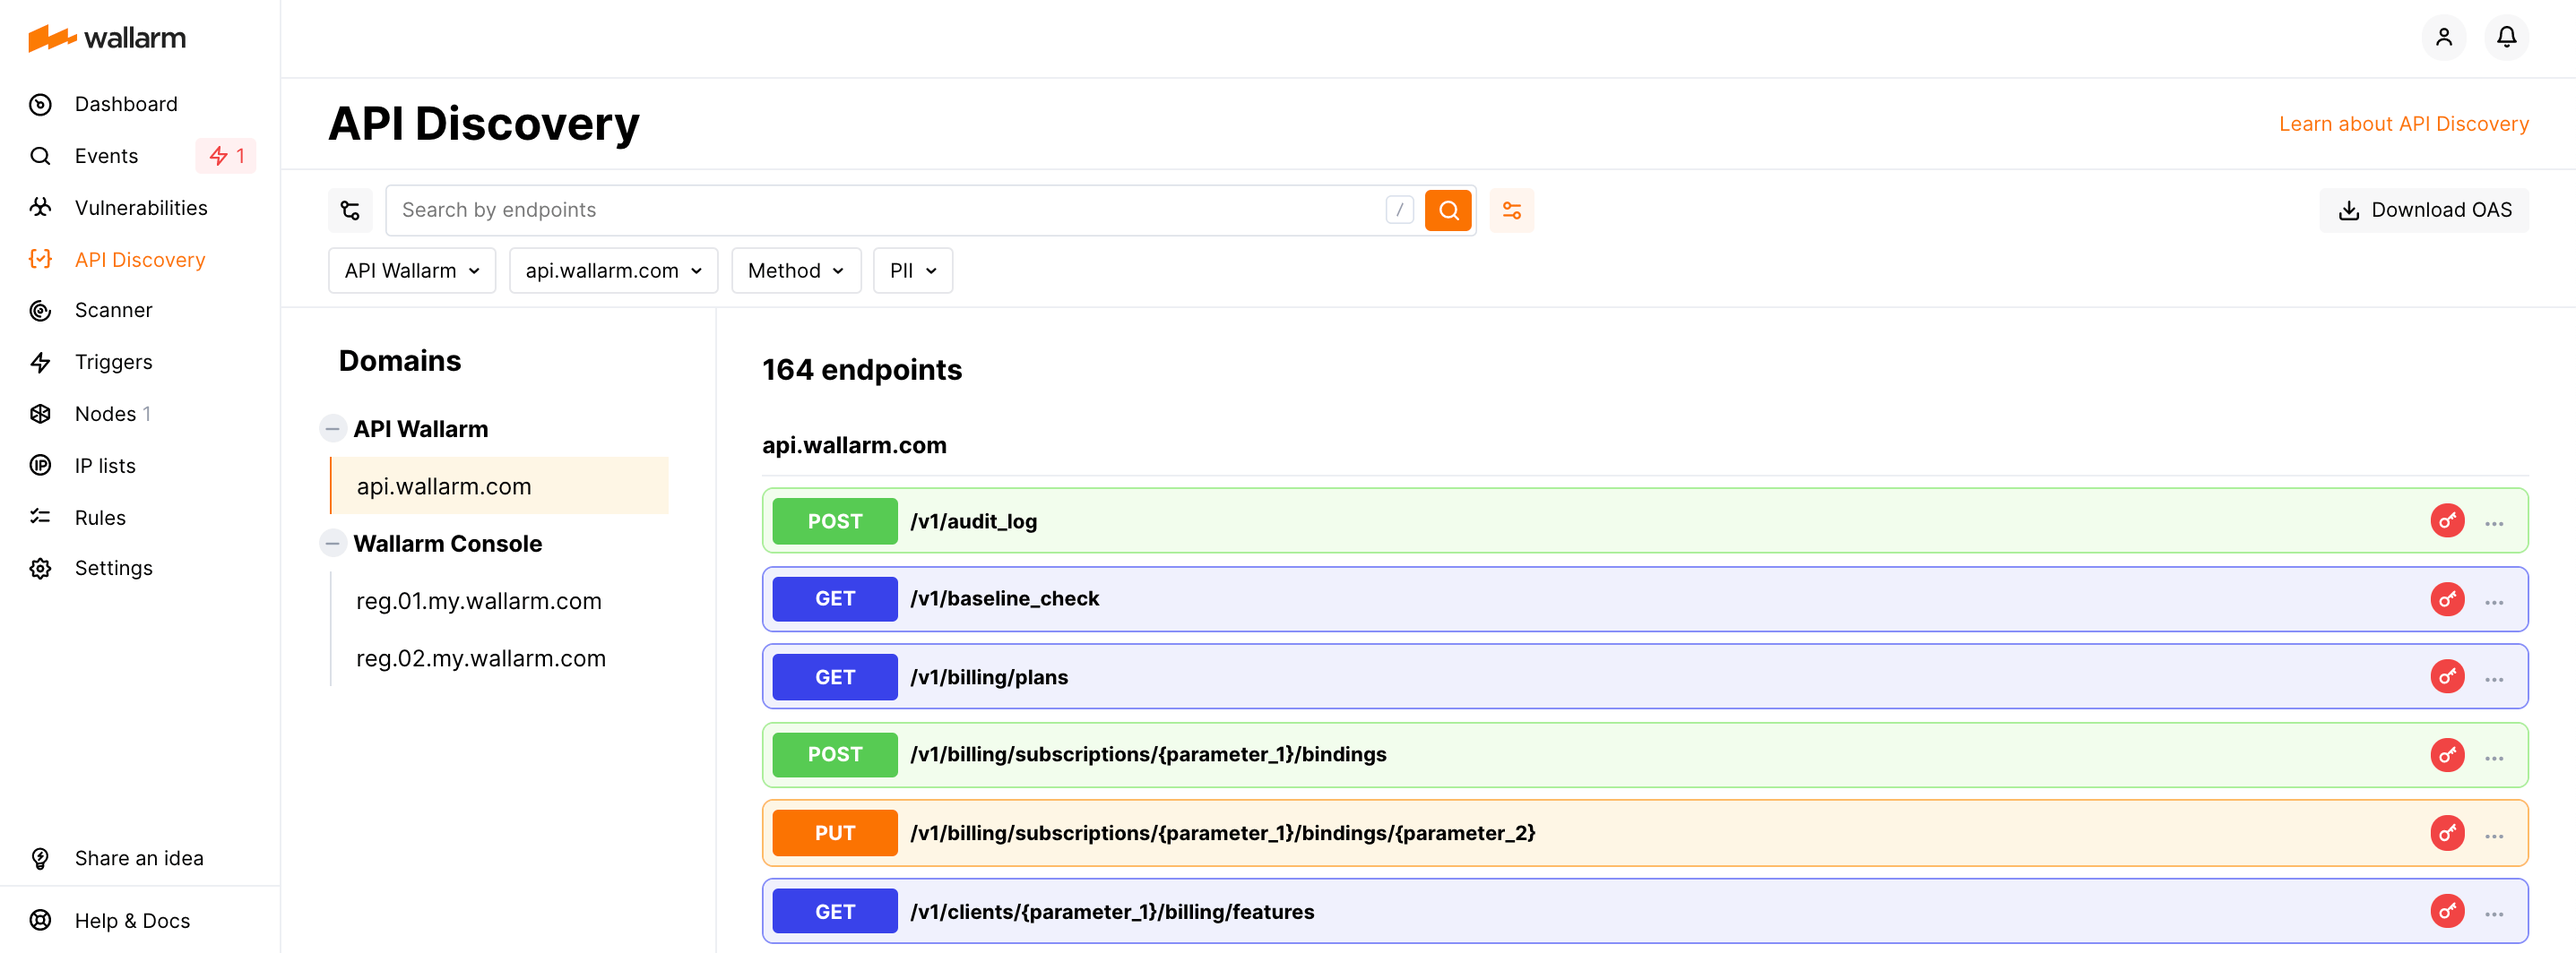
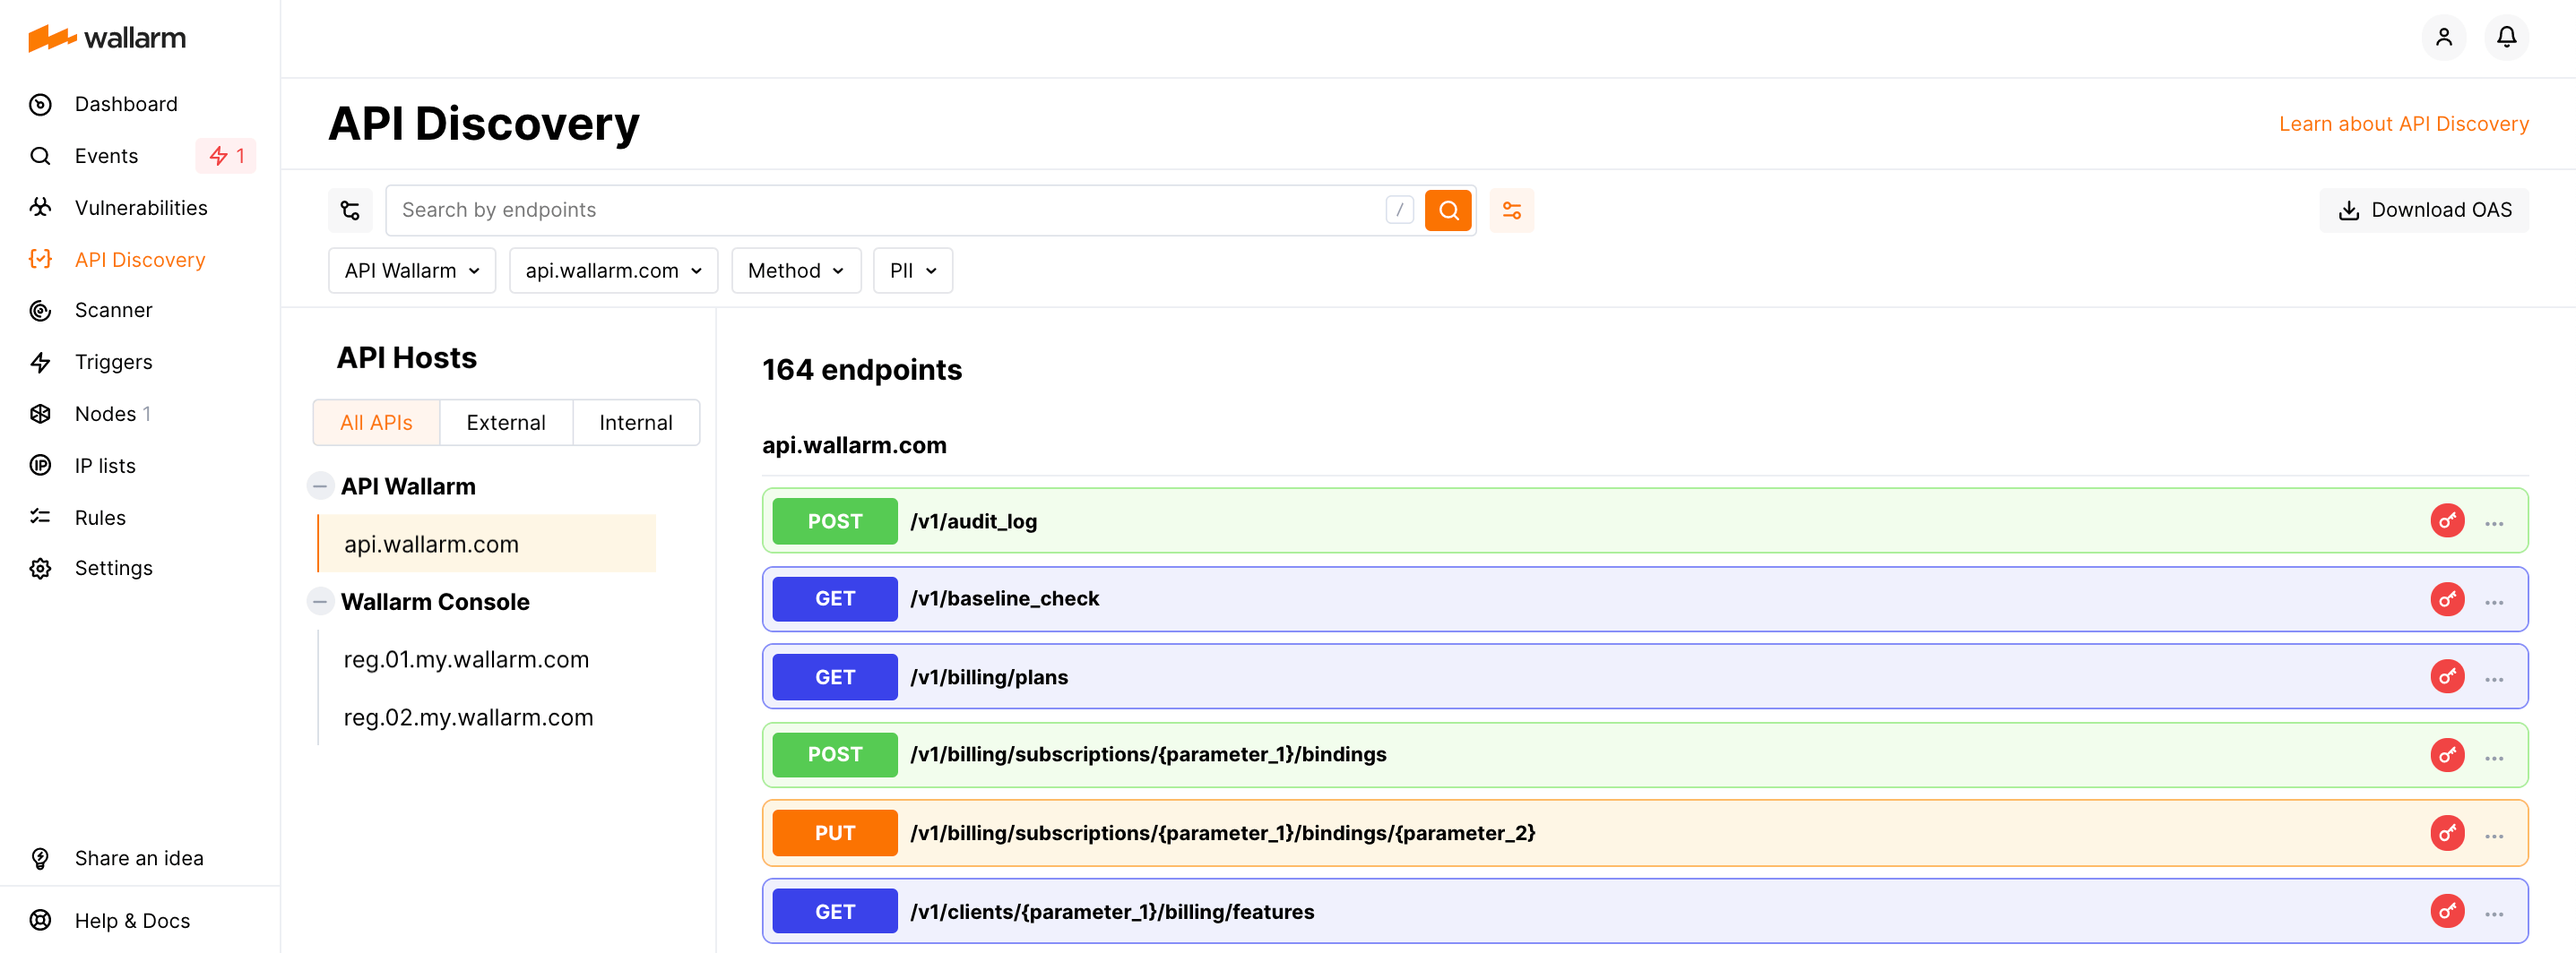
DOCS-1726 API Discovery external and internal APIs

diff --git a/docs/latest/about-wallarm-waf/api-discovery.md b/docs/latest/about-wallarm-waf/api-discovery.md
@@ -16,6 +16,7 @@ Since the API Discovery module uses the real traffic as a data source, it helps 
 
 **As you have your API structure discovered by Wallarm, you can**:
 
+* List your [external and internal](#external-and-internal-apis) APIs.
 * Check [the list of parameters](../user-guides/api-discovery.md#params) that are sent for the selected endpoint, including the following information:
     * Type of data sent in each parameter.
     * Date and time when parameter information was last updated.
@@ -65,6 +66,7 @@ These options are:
 
 * Familiar format of API representation in a **Swagger-like manner**.
 * Search and filters.
+* Ability to list internal and external APIs separately.
 * Viewing endpoint parameters.
 * Tracking changes in API structure.
 * Quick navigation to attacks and incidents related to some endpoint.
@@ -89,6 +91,19 @@ With the **API Discovery** module of Wallarm you can:
 * Make sure PII and other unexpected parameters did not start being transferred to the endpoints.
 
 Learn how to work with the track changes feature in [User guide](../user-guides/api-discovery.md#tracking-changes-in-api-structure).
+
+## External and internal APIs
+
+The endpoints accessible from the external network are the main attack directions. Thus, it is important to see what is available from the outside and pay attention to these endpoints in the first place.
+
+The system automatically splits discovered APIs to external and internal. The host with all its endpoints is considered to be internal if it is located on:
+
+* A private IP or local IP address.
+* A domain without a second level (for example: localhost, dashboard, etc.)
+
+In the remaining cases the hosts are considered to be external.
+
+By default, a list with all API hosts (external and internal) is displayed. In the built API structure, you can view your internal and external APIs separately. To do this, click **External** or **Internal**.
 
 ## Variability in endpoints
 

diff --git a/docs/latest/user-guides/api-discovery.md b/docs/latest/user-guides/api-discovery.md
@@ -24,6 +24,7 @@ You can filter the discovered API structure:
 * Use **Application**, **Domain** and **Method** filters.
 * Use the **PII** filter to filter endpoints by the sensitive data types being passed in the parameters. 
 * In the **Domains** panel, click application or domain.
+* Click **External**, **Internal** or go back to the default **All APIs**.
 
 ## Viewing endpoint parameters
 
